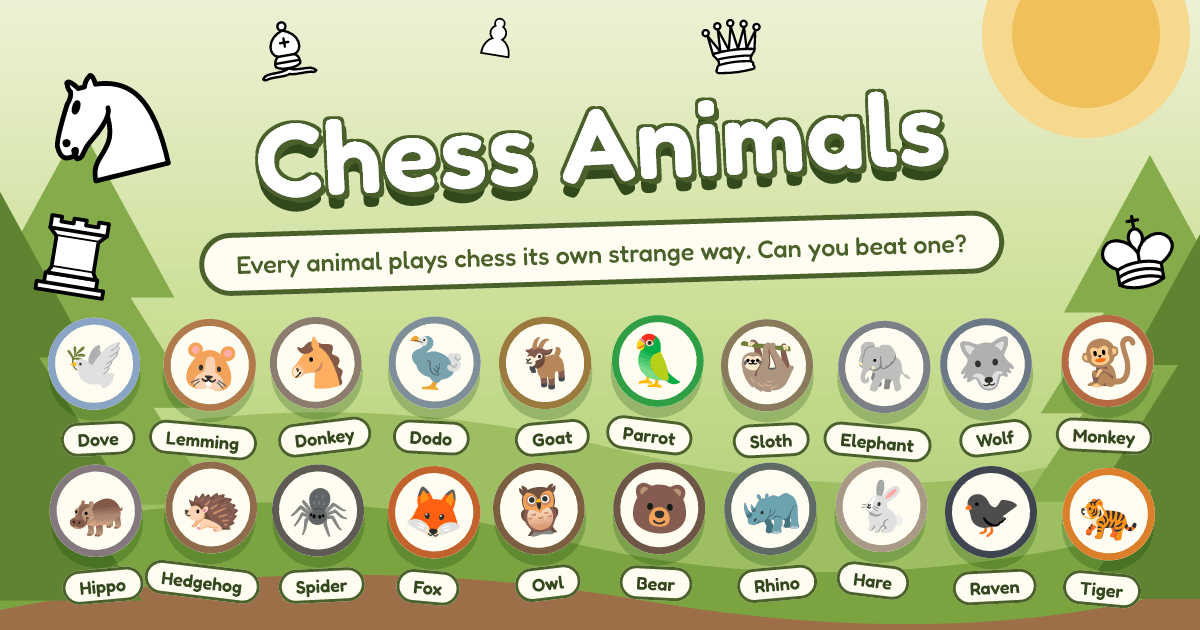
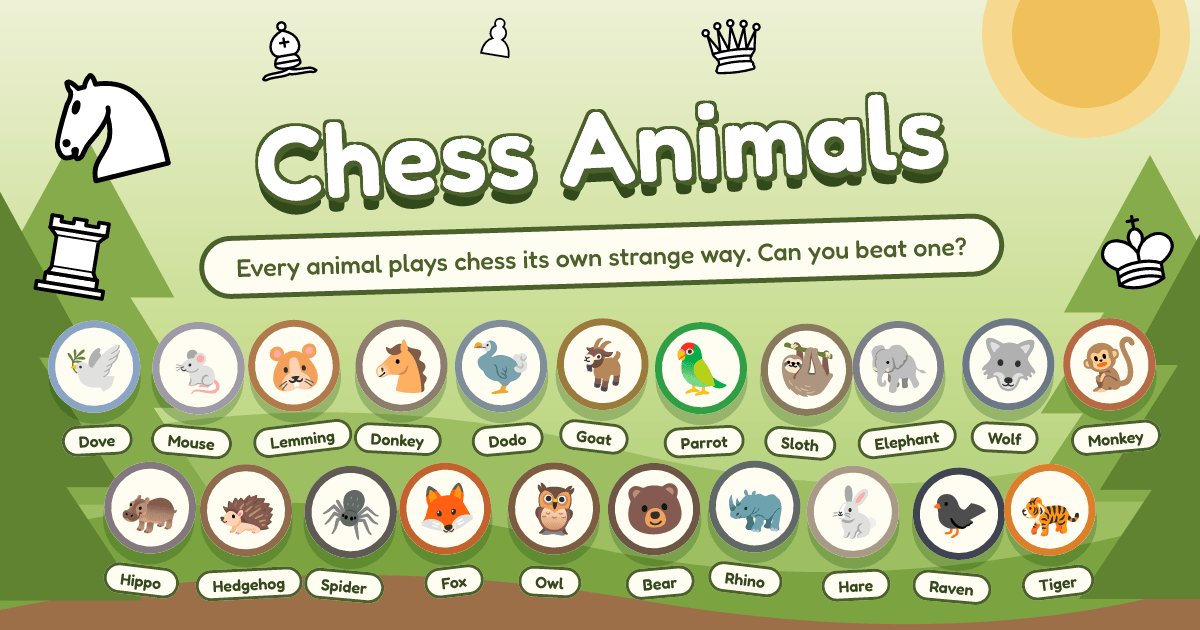
bots: add the Mouse

diff --git a/src/modules/bots/roster/index.ts b/src/modules/bots/roster/index.ts
@@ -10,6 +10,7 @@ import { HEDGEHOG } from "./hedgehog";
 import { HIPPO } from "./hippo";
 import { LEMMING } from "./lemming";
 import { MONKEY } from "./monkey";
+import { MOUSE } from "./mouse";
 import { OWL } from "./owl";
 import { PARROT } from "./parrot";
 import { RAVEN } from "./raven";
@@ -27,7 +28,9 @@ import { WOLF } from "./wolf";
 // which declines every check and capture) and the Lemming (`generous`, which forces them), and
 // the arena has the Donkey beating both badly. The Dodo (`suicide_king`, which walks its king at
 // the enemy) lands just above the Donkey instead: a king in the open is real pressure. All three
-// still lose to every animal with an actual positional idea.
+// still lose to every animal with an actual positional idea. The Mouse fills the gap between the
+// Dove and the Lemming: it keeps its minors home and shies from captures, and its temperature is
+// set to land it there rather than to break repetition.
 //
 // The calibration animals read no personality feature — they are the scale, not filler. The
 // Donkey moves at random; the Monkey is plain material at depth 2, the Owl the same at depth 3.
@@ -59,6 +62,7 @@ import { WOLF } from "./wolf";
 // ~7-in-8.
 export const ROSTER: Animal[] = [
 	DOVE,
+	MOUSE,
 	LEMMING,
 	DONKEY,
 	DODO,

diff --git a/src/modules/bots/roster/__tests__/roster.test.ts b/src/modules/bots/roster/__tests__/roster.test.ts
@@ -66,9 +66,11 @@ describe("Donkey", () => {
 // The Dove and the Lemming are the paper's `pacifist` and `generous`: they decline every capture
 // or force every capture, and the arena rates both well below the Donkey (Dove 89, Lemming 466,
 // Donkey 620). They are the exception to "every animal beats uniform random" — they are the two
-// that don't, and the test holds them to that. The Dodo (`suicide_king`) is not an exception: a
-// king in the open is real pressure and it beats the Donkey like the rest.
-const BELOW_DONKEY = ["dove", "lemming"];
+// that don't, and the test holds them to that. The Mouse joins them on purpose: it is tuned to sit
+// between the two, so it losing to random play is the placement, not a bug. The Dodo
+// (`suicide_king`) is not an exception: a king in the open is real pressure and it beats the
+// Donkey like the rest.
+const BELOW_DONKEY = ["dove", "mouse", "lemming"];
 
 // Over the opening set rather than one start position: uniform random is a different problem from
 // each of the fifty, and a single game from the initial position swings on almost nothing.

diff --git a/src/modules/bots/roster/mouse.ts b/src/modules/bots/roster/mouse.ts
@@ -1,0 +1,21 @@
+import type { Animal } from "./types";
+
+// Keeps its knights and bishops at home and flinches from every capture — the Dove's refusal to
+// fight, without the Dove's dread of checks, on top of never getting its pieces out.
+//
+// The temperature is the calibration, not a repetition-breaker: at 100 centipawns a pawn grab
+// costs it half a pawn of willingness, a knight three halves, so it mostly shuffles at random and
+// only sometimes takes what is offered. The lab put that at 345, midway between the Dove (244) and
+// the Lemming (514); at 50 it sat on the Dove and at 200 on the Lemming.
+//
+// No base, and no `givesMate`: it cannot see a mate either way.
+export const MOUSE: Animal = {
+	emoji: "🐁",
+	tint: "#9e9aa6",
+	definition: {
+		id: "mouse",
+		search: { depth: 1 },
+		temperature: 100,
+		weights: { development: -60, captureValue: -50 },
+	},
+};

diff --git a/src/locales/ru/bots.ts b/src/locales/ru/bots.ts
@@ -8,6 +8,10 @@ export default {
 		name: "Голубь",
 		description: "Не шахует, не бьет, не ставит мат. Проигрывает очень вежливо.",
 	},
+	mouse: {
+		name: "Мышь",
+		description: "Сидит в норке и почти не высовывается. Не кусает, даже ради крошки.",
+	},
 	lemming: {
 		name: "Лемминг",
 		description: "Отдает тебе фигуры — сначала самые большие. А потом — и все остальные.",

diff --git a/src/locales/en/bots.ts b/src/locales/en/bots.ts
@@ -8,6 +8,10 @@ export default {
 		name: "Dove",
 		description: "Won't check, won't take, won't land the mate. It loses very politely.",
 	},
+	mouse: {
+		name: "Mouse",
+		description: "Hides in its hole and hardly comes out. It won't bite, even for a crumb.",
+	},
 	lemming: {
 		name: "Lemming",
 		description: "Hands you its pieces, biggest first. Then hands you the rest, too.",
